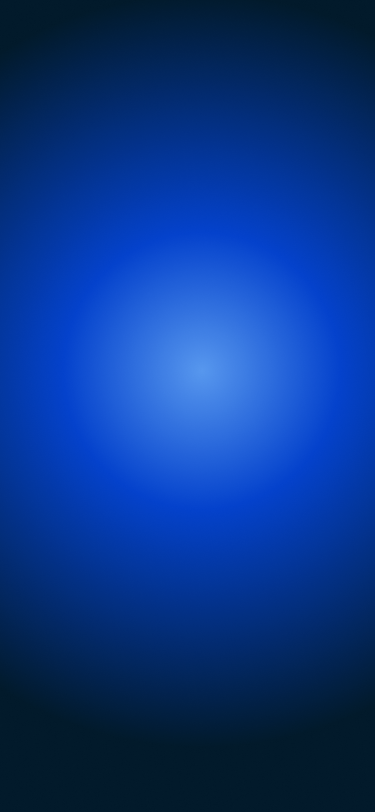
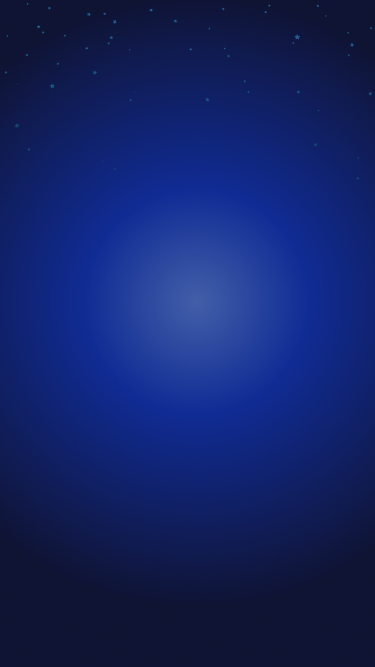
refactor(emotion-carousel-choice-screen-ui): Ui

diff --git a/app/screens/Reusable/EmotionCarouselChoice/EmotionCarouselChoice.tsx b/app/screens/Reusable/EmotionCarouselChoice/EmotionCarouselChoice.tsx
@@ -10,9 +10,10 @@ import {
   useParsedJSXTextNickname,
   useRenderQuestHeader,
 } from '../../../hooks';
-import { IMAGES } from '../../../assets';
+import { CHARMS_BACKGROUNDS } from '../../../assets';
 import { generalStyles } from '../../../utils/styles';
 import { BottomButtonView, ExtendedText } from '../../../components';
+import { EMOTIONS_CAROUSEL_SVG } from '../../../assets/svg';
 
 export const EmotionCarouselChoiceScreen: React.FC<IEmotionCarouselChoiceScreenProps> =
   ({ route }) => {
@@ -27,16 +28,18 @@ export const EmotionCarouselChoiceScreen: React.FC<IEmotionCarouselChoiceScreenP
     } = route.params.data;
 
     const { t } = useTranslation();
-    const emotionItem = useAppSelector(state => state.cache.emotionItem) ?? '';
+    const emotionTitle = useAppSelector(
+      state => state.cache.emotionItem?.title,
+    );
+    const iconKey = useAppSelector(state => state.cache.emotionItem?.image);
+
     const onSubmit = useNavigateNextQuest();
 
     const Title = useParsedJSXTextNickname({
       text: title,
       textHasNickname: titleHasNickname ?? true,
       preset: 'title',
-      style: styles.textCenter,
-      // TODO: remove
-      variableStyle: { color: '#00dbc0' },
+      style: styles.title,
     });
 
     const Header = useRenderQuestHeader({
@@ -44,28 +47,29 @@ export const EmotionCarouselChoiceScreen: React.FC<IEmotionCarouselChoiceScreenP
       escapeMenuAlternativeNavigateTo,
     });
 
+    const Icon = iconKey && EMOTIONS_CAROUSEL_SVG[iconKey];
+
     return (
       <ImageBackground
-        // TODO: change to real default image
         source={
-          (backgroundImage && IMAGES[backgroundImage]) ?? {
-            uri: 'https://i0.wp.com/artisthue.com/wp-content/uploads/2020/12/Aesthetic-Full-Moon-Wallpaper.jpg?resize=576%2C1024&ssl=1',
-          }
+          CHARMS_BACKGROUNDS[backgroundImage ?? 'ALTERNATIVE_GARDEN_BACKGROUND']
         }
         style={generalStyles.flex}>
         <SafeAreaView style={generalStyles.flex}>
           <Header />
           <BottomButtonView
-            buttonTitle={buttonTitle ?? t('buttons.next')}
+            buttonTitle={buttonTitle || t('buttons.next')}
+            isArrow
             onSubmit={onSubmit}
             style={styles.container}>
             <Title />
             <View style={styles.card}>
-              <ExtendedText preset="heading" style={styles.textCenter}>
-                {emotionItem}
+              {Icon && <Icon />}
+              <ExtendedText preset="heading" style={styles.cardTitle}>
+                {emotionTitle}
               </ExtendedText>
             </View>
-            <ExtendedText preset="secondary-text" style={styles.textCenter}>
+            <ExtendedText preset="secondary-text" style={styles.subtitle}>
               {description}
             </ExtendedText>
           </BottomButtonView>

diff --git a/app/screens/Reusable/EmotionCarouselChoice/EmotionCarouselChoice.styles.ts b/app/screens/Reusable/EmotionCarouselChoice/EmotionCarouselChoice.styles.ts
@@ -1,30 +1,48 @@
 import { StyleSheet, TextStyle, ViewStyle } from 'react-native';
 
+import { COLORS } from '../../../themes/colors';
+
 interface IEmotionCarouselChoiceScreenStyles {
   container: ViewStyle;
   card: ViewStyle;
-  textCenter: TextStyle;
+  subtitle: TextStyle;
+  title: TextStyle;
+  cardTitle: TextStyle;
 }
 
 export const styles = StyleSheet.create<IEmotionCarouselChoiceScreenStyles>({
   container: {
     paddingTop: 40,
     paddingHorizontal: 24,
+    alignItems: 'center',
   },
   card: {
-    flex: 1,
     justifyContent: 'center',
     alignItems: 'center',
-    maxHeight: 240,
+    paddingVertical: 34,
     marginTop: 48,
     marginHorizontal: 40,
-    marginBottom: 37,
     paddingHorizontal: 24,
-    // TODO: change to correct styles
-    backgroundColor: '#712CA4',
+    backgroundColor: COLORS.PRIMARY_PURPLE,
+    borderColor: COLORS.PRIMARY_ORANGE,
+    borderWidth: 2,
     borderRadius: 24,
   },
-  textCenter: {
+  title: {
     textAlign: 'center',
+    color: COLORS.BRILLIANT_WHITE,
+    maxWidth: 327,
+  },
+  subtitle: {
+    textAlign: 'center',
+    color: COLORS.LIGHT_GREY,
+    maxWidth: 295,
+    marginTop: 57,
+  },
+  cardTitle: {
+    textAlign: 'center',
+    color: COLORS.PRIMARY_ORANGE,
+    maxWidth: 200,
+    marginTop: 14,
   },
 });
